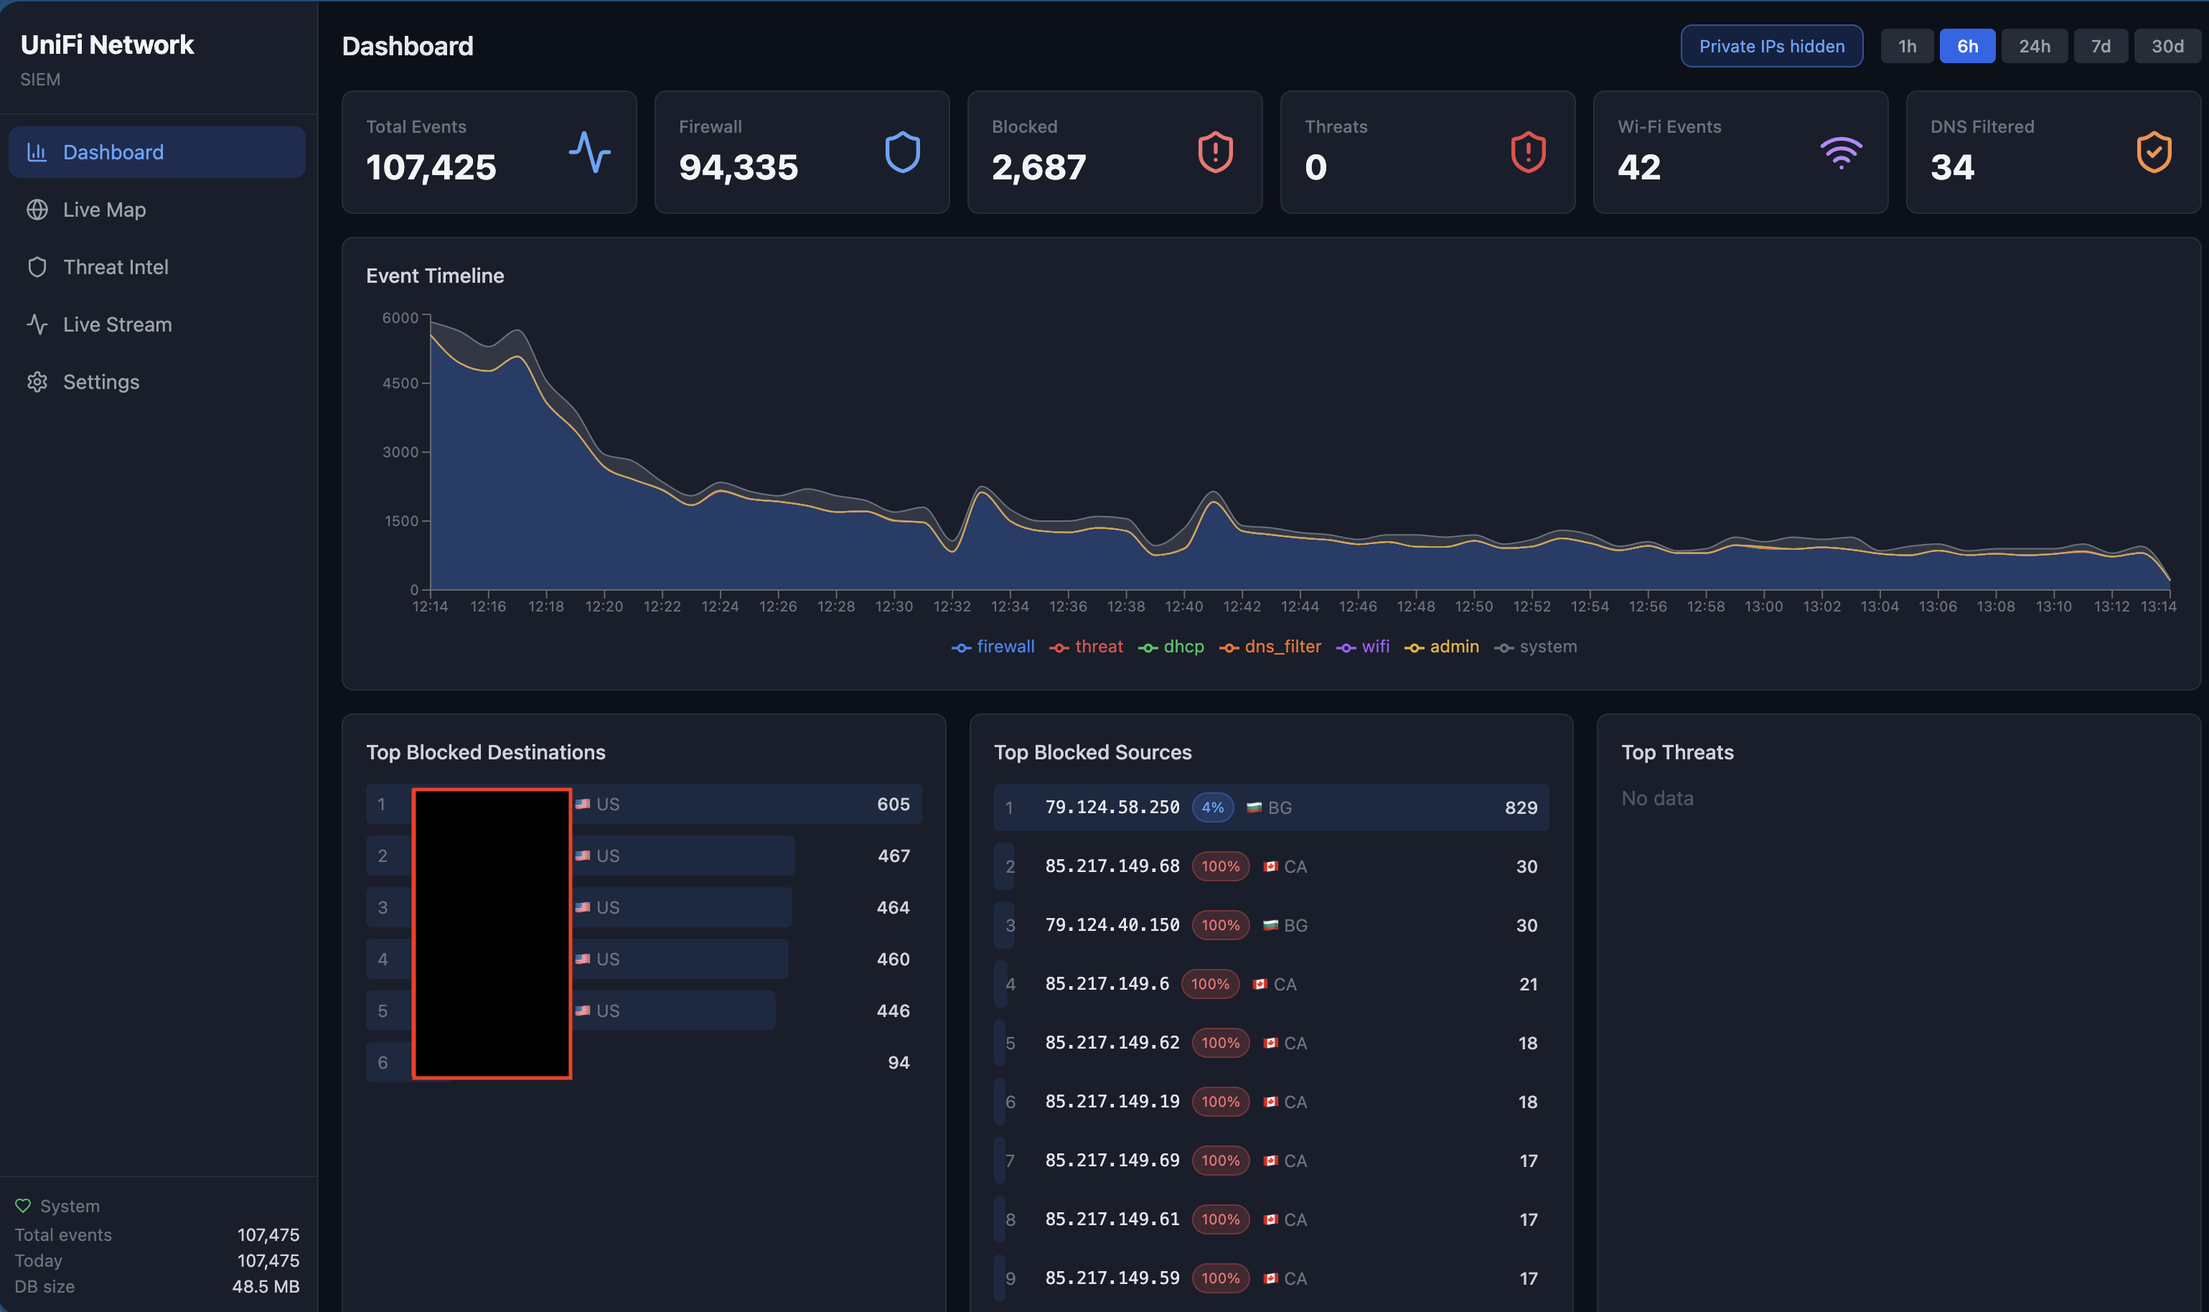
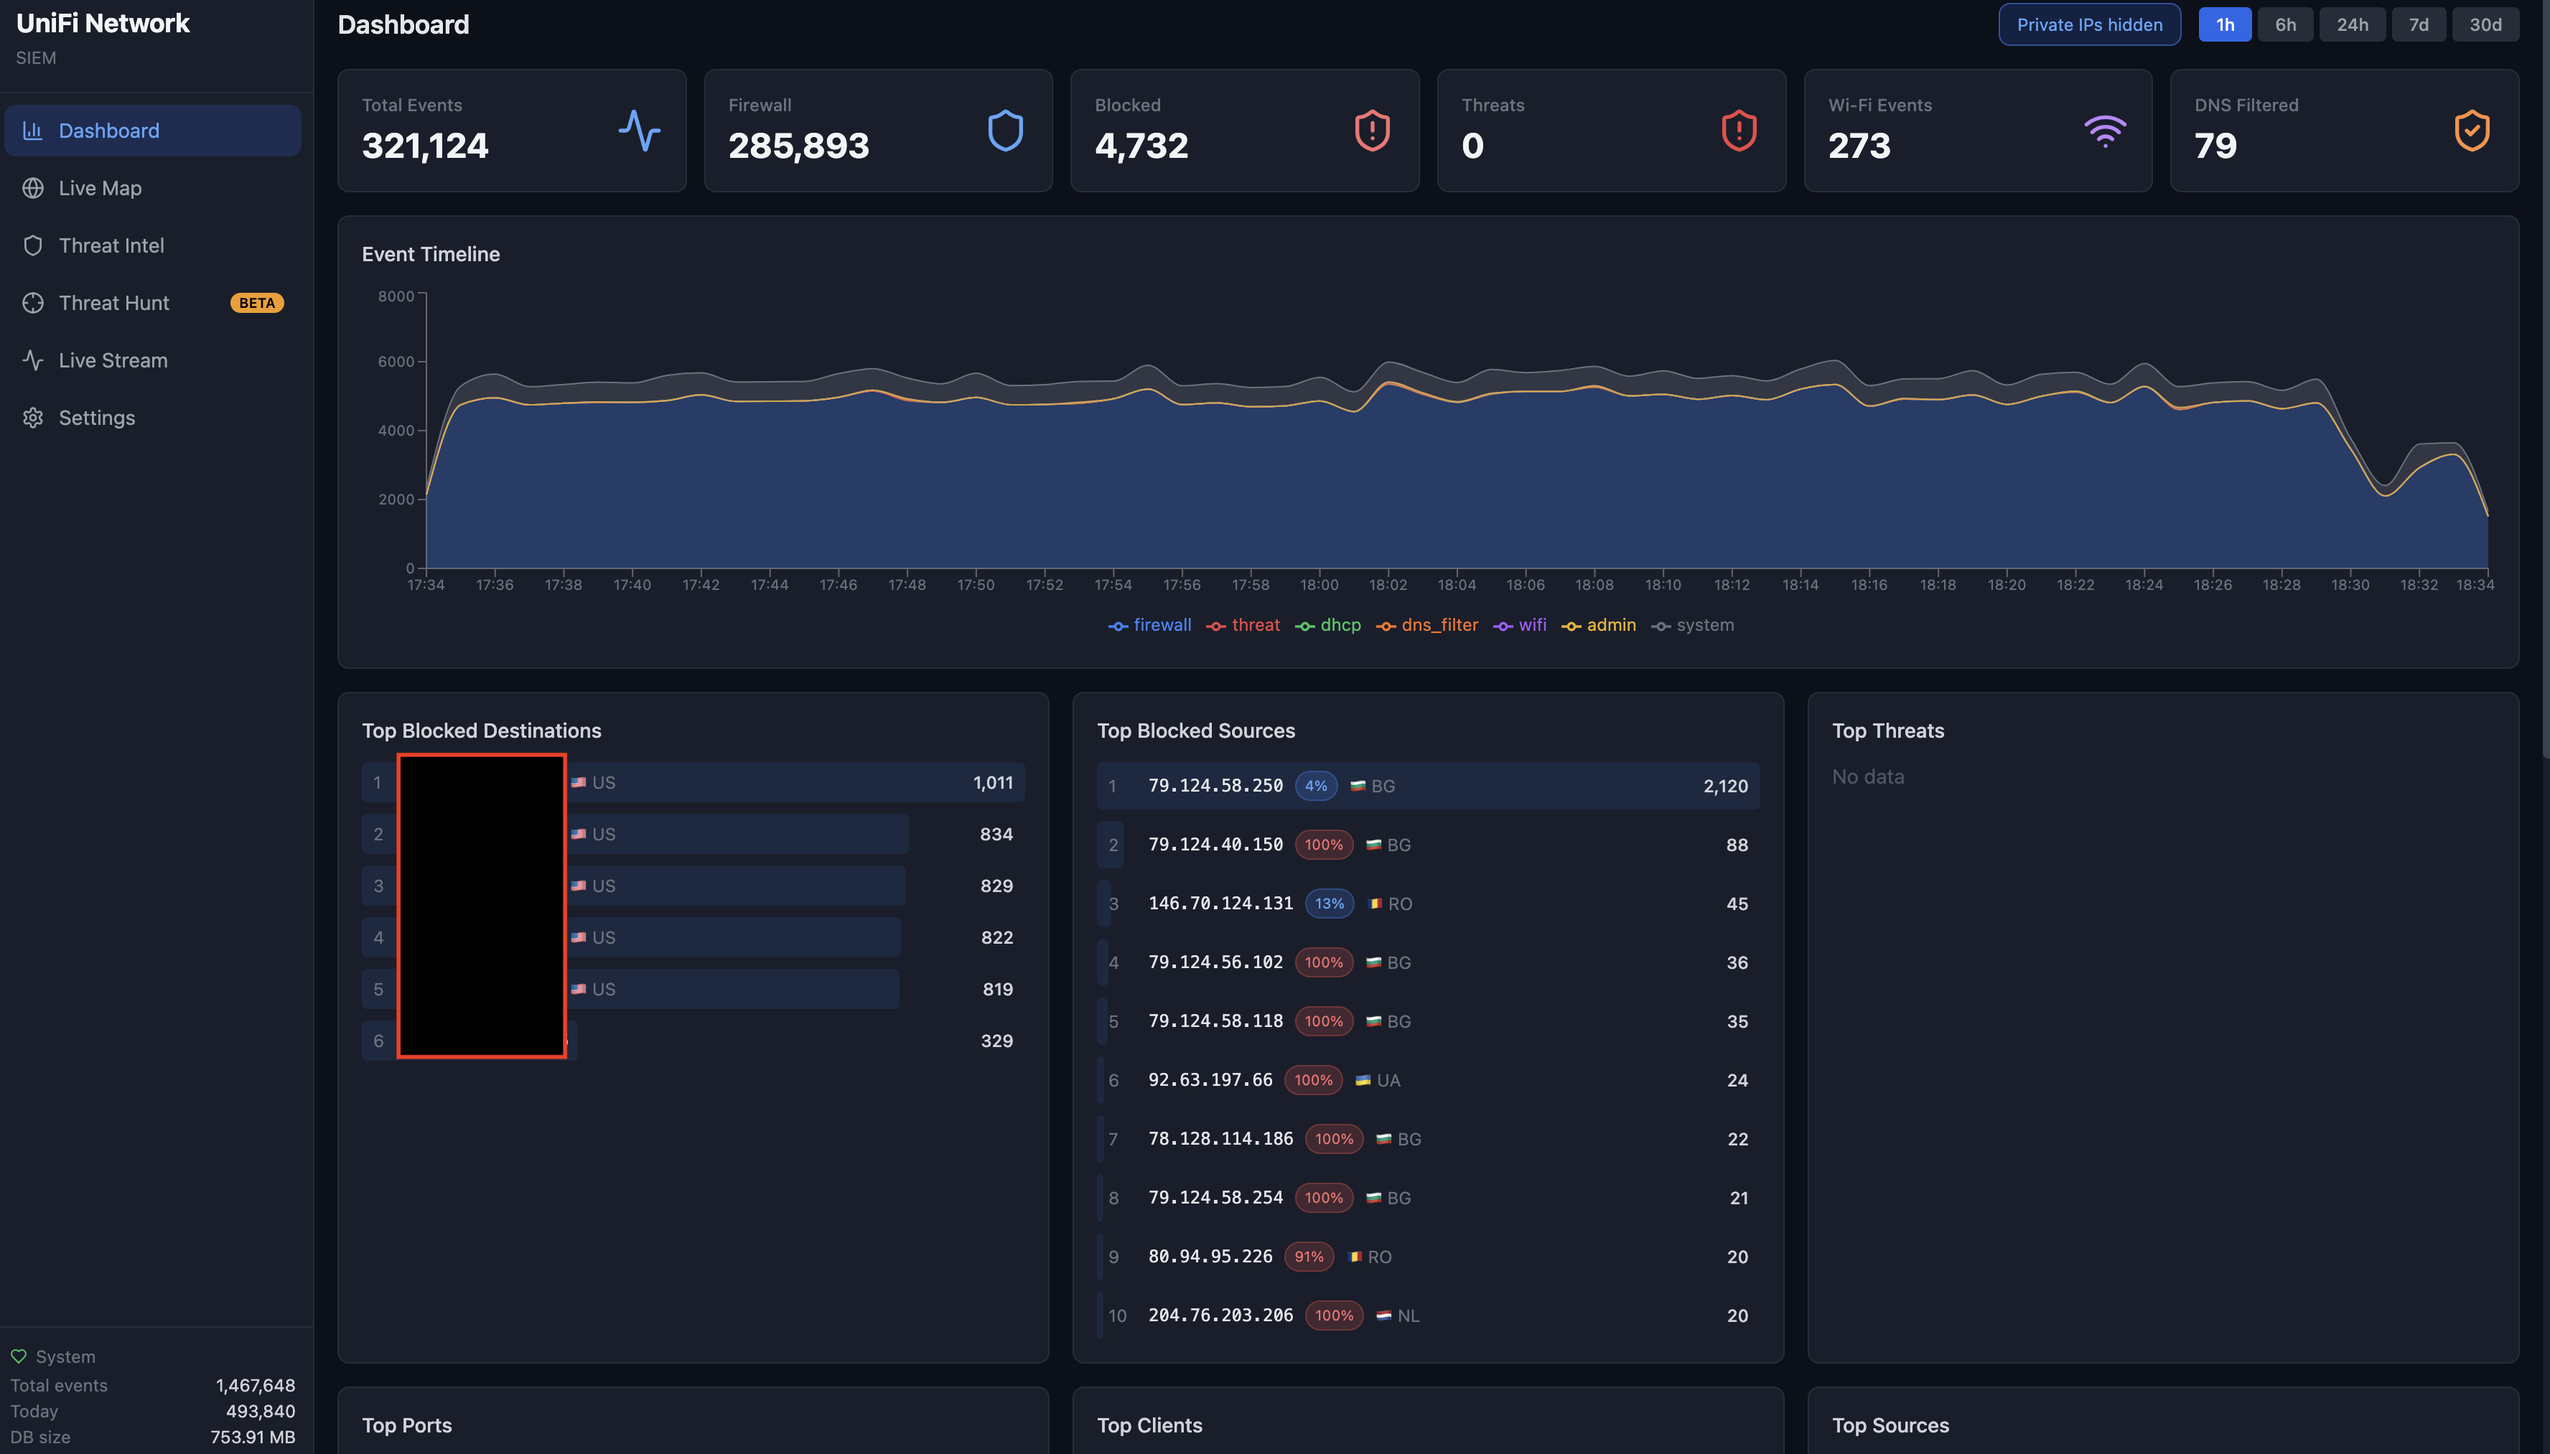
docs: add Threat Hunt screenshot, performance optimization to roadmap

diff --git a/README.md b/README.md
@@ -35,6 +35,9 @@ A self-contained, **AI-powered** Node.js application that collects syslog from U
 ### Live Stream
 ![Live Stream](screenshots/LiveStream.png)
 
+### Threat Hunt (Beta)
+![Threat Hunt Beta](screenshots/ThreatHuntBeta.png)
+
 ### Settings
 ![Settings](screenshots/Settings.png)
 
@@ -281,4 +284,5 @@ The app runs HTTPS by default with an auto-generated self-signed certificate. Be
 - [ ] Threat Hunting view — AI-powered investigation workspace for profiling threat actors (IP timeline, associated events, geo history, abuse reports, related IPs). Integrates with Gemini, OpenAI, or Anthropic APIs for automated threat analysis and natural language investigation queries
 - [ ] CSV export
 - [ ] Dark/light mode toggle
+- [ ] Performance optimization — enrichment backfill, query tuning, multi-core utilization for high-volume deployments
 - [ ] launchd plist for macOS auto-start
